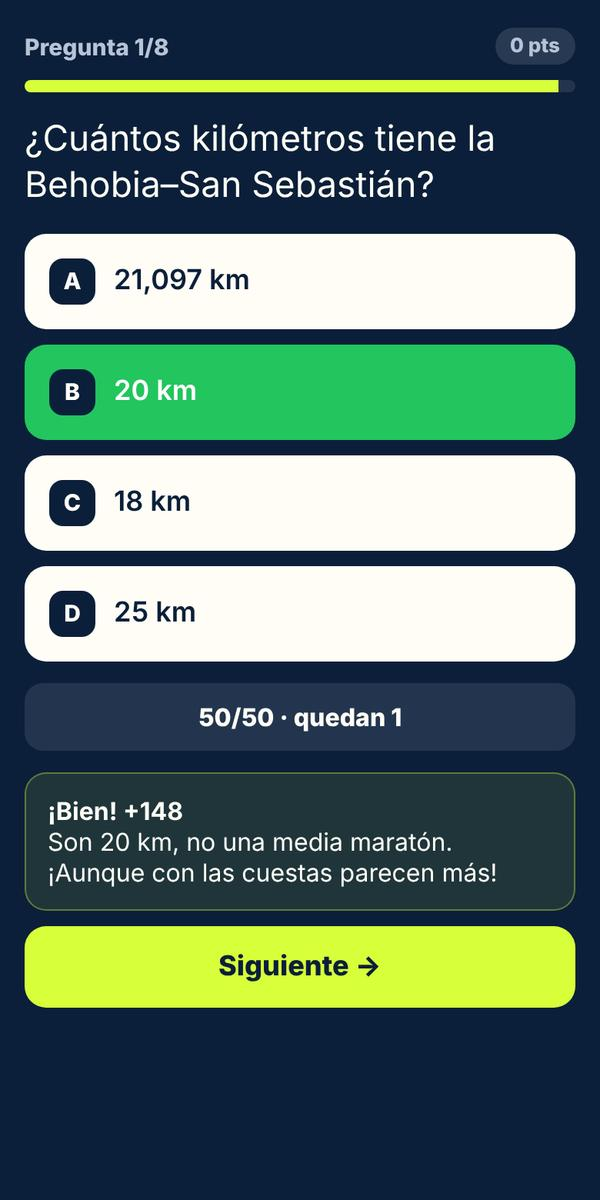
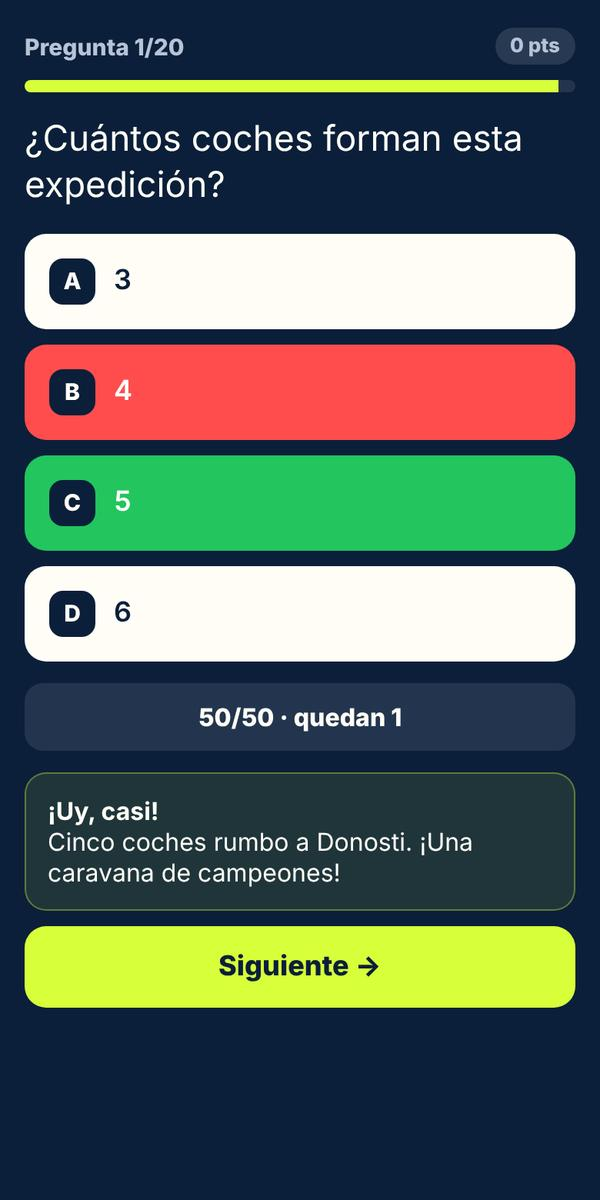
Porra individual, concurso de 20 preguntas por ronda con progreso guardado, una misión cambiada
Claude-Session: https://claude.ai/code/session_016PK8MS4tbaT5dERcZ1YUJ1

diff --git a/index.html b/index.html
@@ -138,8 +138,6 @@ const COCHES = [
   { id:4, nombre:"Coche de Paula Rovira",conductor:"Paula Rovira", pasajeros:["Rosa","Sandra"] },
   { id:5, nombre:"Coche de Jorge",       conductor:"Jorge",        pasajeros:["José Enrique","Merche","Maite"] },
 ];
-const VETERANOS = ["Luis","Fernando","Raúl"];
-const DEBUTANTE = "Isabel";
 const PIN_PRESENTADORA = "1919";
 const CODIGO_RONDA2 = "MORCILLA";
 const SEGUNDOS = 25;
@@ -152,7 +150,7 @@ const MISIONES = [
   "Logra que {T} te enseñe una foto de su móvil (mascota, hijos, vacaciones…).",
   "Choca los cinco con {T} tres veces antes de la cena del sábado.",
   "Haz que {T} pruebe algo típico de Burgos y que te dé las gracias.",
-  "Averigua el mejor tiempo de {T} en cualquier carrera.",
+  "Averigua cuál es la carrera o el reto deportivo más loco que ha hecho {T}.",
   "Consigue que {T} te dé un consejo para la carrera… y que te lo repita.",
   "Logra que {T} cante, aunque sea un trozo, alguna canción.",
   "Haz que {T} se ría con un chiste malo tuyo.",
@@ -166,22 +164,46 @@ const MISIONES = [
 
 const RONDAS = {
   1: { titulo:"Ronda 1 · Madrid → Burgos", preguntas:[
+    { q:"¿Cuántos coches forman esta expedición?", o:["3","4","5","6"], a:2,
+      f:"Cinco coches rumbo a Donosti. ¡Una caravana de campeones!" },
     { q:"¿Cuántos kilómetros tiene la Behobia–San Sebastián?", o:["21,097 km","20 km","18 km","25 km"], a:1,
       f:"Son 20 km, no una media maratón. ¡Aunque con las cuestas parecen más!" },
     { q:"¿En qué año se corrió la primera Behobia?", o:["1919","1951","1936","1979"], a:0,
       f:"El 30 de marzo de 1919. Más de 100 años de historia." },
-    { q:"¿Cuántos del grupo ya han corrido la Behobia antes?", o:["Ninguno","Uno","Tres","Todos menos Isabel"], a:2,
+    { q:"Saliendo de Madrid por la A-1, ¿qué puerto de montaña cruzáis?", o:["Navacerrada","Somosierra","Despeñaperros","Pajares"], a:1,
+      f:"Somosierra, a unos 1.444 m. Al otro lado ya estáis en la provincia de Segovia, en Castilla y León." },
+    { q:"¿Cuántos del grupo ya han corrido la Behobia antes?", o:["Ninguno","Uno","Tres","Todos"], a:2,
       f:"Luis, Fernando y Raúl. ¡Veteranos, os toca dar consejos!" },
+    { q:"¿Cuál es la comunidad autónoma más grande de España en extensión?", o:["Andalucía","Castilla y León","Castilla-La Mancha","Aragón"], a:1,
+      f:"Castilla y León, con unos 94.000 km². Burgos es una de sus nueve capitales de provincia." },
     { q:"¿Qué es el Papamoscas de Burgos?", o:["Un pájaro típico de la sierra","Un dulce de hojaldre","Una figura de la catedral que abre la boca al dar la hora","Un bar mítico de la Plaza Mayor"], a:2,
       f:"Está en lo alto de la nave de la catedral y abre la boca al sonar las campanadas." },
+    { q:"En una maratón, ¿qué es «el muro»?", o:["Una cuesta muy empinada del recorrido","El cartel gigante de la meta","El bajón de energía hacia el km 30-35","La zona donde reparten el agua"], a:2,
+      f:"Es cuando se agotan las reservas de energía. La Behobia, con 20 km, se queda antes del muro… pero las cuestas se notan igual." },
     { q:"¿Qué lleva la auténtica morcilla de Burgos?", o:["Patata","Arroz","Pan","Garbanzos"], a:1,
       f:"Arroz, cebolla, sangre, manteca y especias." },
+    { q:"¿Por qué es famosa Aranda de Duero, de camino a Burgos?", o:["Por su marisco","Por su fabada","Por su lechazo asado y sus vinos","Por su pulpo"], a:2,
+      f:"Lechazo asado en horno de leña y los vinos de la Ribera del Duero." },
     { q:"¿Cómo se llamaba el caballo del Cid?", o:["Rocinante","Bucéfalo","Babieca","Marengo"], a:2,
       f:"Babieca. Rocinante era el de don Quijote." },
+    { q:"¿Qué río atraviesa la ciudad de Burgos?", o:["Duero","Ebro","Pisuerga","Arlanzón"], a:3,
+      f:"El Arlanzón. El Duero pasa por otras ciudades como Soria o Zamora." },
+    { q:"¿En qué año declaró la UNESCO Patrimonio de la Humanidad a la Catedral de Burgos?", o:["1962","1984","1999","2007"], a:1,
+      f:"En 1984. Es la única catedral española con ese título ella sola, sin el resto de la ciudad." },
     { q:"¿Por qué es famosa Atapuerca, cerca de Burgos?", o:["Por sus bodegas","Por sus yacimientos de los primeros humanos de Europa","Por un monasterio templario","Por una batalla napoleónica"], a:1,
       f:"Sus yacimientos son clave para conocer la evolución humana." },
+    { q:"¿Dónde se expone el Guernica de Picasso?", o:["Museo del Prado","Museo Guggenheim de Bilbao","Museo Reina Sofía","Museo Thyssen"], a:2,
+      f:"En el Reina Sofía, en Madrid. Y Gernika es un pueblo de Bizkaia, ya en Euskadi." },
     { q:"¿Cuánto mide una maratón?", o:["40 km justos","42,195 km","41,5 km","45 km"], a:1,
       f:"42,195 km. La Behobia, con 20, no es ni media… pero casi." },
+    { q:"¿De qué Juegos Olímpicos sale la distancia de 42,195 km de la maratón?", o:["Atenas 1896","París 1900","Londres 1908","Berlín 1936"], a:2,
+      f:"De Londres 1908: salieron del castillo de Windsor y acabaron ante el palco real. La distancia se fijó oficialmente en 1921." },
+    { q:"¿Qué cena es la favorita de los corredores la noche antes de una carrera?", o:["Cocido madrileño","Pasta","Fabada","Cochinillo asado"], a:1,
+      f:"Pasta: los hidratos cargan las pilas. El cocido, mejor después de la carrera." },
+    { q:"En running, ¿qué es un «negative split»?", o:["Salir a tope y aguantar como se pueda","Correr la segunda mitad más rápido que la primera","Parar a beber en cada avituallamiento","Correr sin reloj"], a:1,
+      f:"Acabar más fuerte de lo que empezaste. Es el truco de los que llegan frescos a la meta." },
+    { q:"¿Cuántos kilómetros hay por carretera de Madrid a San Sebastián?", o:["Unos 270 km","Unos 470 km","Unos 670 km","Unos 870 km"], a:1,
+      f:"Unos 470 km, casi 5 horas con parada. ¡Paciencia, equipo!" },
   ]},
   2: { titulo:"Ronda 2 · Burgos → Donosti", preguntas:[
     { q:"¿Dónde está la salida de la Behobia?", o:["En Hondarribia","En Behobia, un barrio de Irun junto a Francia","En Pasaia","En Hendaya (Francia)"], a:1,
@@ -192,14 +214,38 @@ const RONDAS = {
       f:"En 1659. Es una isla que España y Francia gestionan por turnos de 6 meses." },
     { q:"¿Cuántos corredores tomaron la salida en la primera edición?", o:["7","22","150","1.000"], a:1,
       f:"22 atletas en 1919. Hoy son unos 30.000." },
+    { q:"¿Cómo se llama la playa más famosa de Donosti?", o:["Zurriola","Ondarreta","La Concha","Santa Clara"], a:2,
+      f:"La Concha, con forma de concha. Zurriola es la de los surfistas." },
     { q:"¿Cuál es el alto más temido del recorrido?", o:["Jaizkibel","Igueldo","Gaintxurizketa","Urgull"], a:2,
       f:"Gaintxurizketa. Luego llega Miracruz, casi al final." },
+    { q:"¿Cómo se dice «gracias» en euskera?", o:["Kaixo","Agur","Eskerrik asko","Aupa"], a:2,
+      f:"Eskerrik asko. «Kaixo» es hola y «agur», adiós." },
     { q:"¿Dónde está la meta?", o:["En la playa de la Concha","En el estadio de Anoeta","En el Boulevard","En el Kursaal"], a:2,
       f:"En el Boulevard, en pleno centro de Donosti." },
+    { q:"¿Qué es el txakoli?", o:["Un queso de oveja","Un vino blanco ligero y fresco","Un licor de hierbas","Una sidra"], a:1,
+      f:"Un vino blanco ligero y afrutado, que se sirve escanciado desde lo alto. Típico de Getaria." },
     { q:"¿Quién hizo el Peine del Viento?", o:["Jorge Oteiza","Eduardo Chillida","Rafael Moneo","Frank Gehry"], a:1,
       f:"Eduardo Chillida, donostiarra. Moneo hizo el Kursaal." },
+    { q:"¿Qué monte de Donosti tiene un funicular y un parque de atracciones de 1912?", o:["Urgull","Ulia","Igueldo","Jaizkibel"], a:2,
+      f:"Igueldo: funicular de madera y parque de atracciones desde 1912, con vistas a toda la bahía." },
+    { q:"¿Qué monte, junto al puerto, tiene el castillo de la Mota y un gran Sagrado Corazón en la cima?", o:["Ulia","Aiako Harria","Igueldo","Urgull"], a:3,
+      f:"Urgull. Se sube andando desde la Parte Vieja." },
     { q:"¿Qué lleva una Gilda, el pintxo nacido en Donosti?", o:["Pimiento, gamba y huevo","Guindilla, aceituna y anchoa","Jamón, queso y tomate","Bacalao y pimiento"], a:1,
       f:"Se llama así por Rita Hayworth: «verde, salada y un poco picante»." },
+    { q:"¿Qué tarta, nacida en un bar de la Parte Vieja de Donosti, se ha hecho famosa en medio mundo?", o:["Tarta de Santiago","Tarta de queso «quemada»","Tarta Sacher","Tarta tatin"], a:1,
+      f:"La tarta de queso al estilo de La Viña: tostada por fuera y cremosa por dentro." },
+    { q:"¿Qué festival se celebra en Donosti cada septiembre?", o:["Festival de la Sidra","Festival Internacional de Cine","Semana Grande","Festival de Jazz"], a:1,
+      f:"El Zinemaldia, el Festival de Cine, desde 1953. La Semana Grande es en agosto y el Jazzaldia en julio." },
+    { q:"¿En qué año fue Donostia Capital Europea de la Cultura?", o:["1992","2008","2016","2024"], a:2,
+      f:"En 2016, junto a Breslavia (Polonia)." },
+    { q:"¿Cuánto tarda más o menos el ganador de la Behobia en hacer los 20 km?", o:["Unos 40 minutos","Una hora","Hora y media","Dos horas"], a:1,
+      f:"Alrededor de una hora: en 2024 ganó Chakib Lachgar en 1 h 02 min. ¡Unos 3 min por km!" },
+    { q:"Cada 20 de enero Donosti celebra su día con una gran…", o:["Romería","Tamborrada","Cabalgata","Verbena"], a:1,
+      f:"La Tamborrada: miles de donostiarras desfilan con tambores y barriles, vestidos de cocineros y soldados." },
+    { q:"¿De qué fruta se hace el pacharán?", o:["Cerezas","Moras","Endrinas","Manzanas"], a:2,
+      f:"De endrinas maceradas en anís. Típico de Navarra y del País Vasco." },
+    { q:"¿De qué provincia es capital Donostia?", o:["Bizkaia","Álava","Navarra","Gipuzkoa"], a:3,
+      f:"De Gipuzkoa. Bilbao es de Bizkaia y Vitoria-Gasteiz, la capital vasca, de Álava." },
   ]},
 };
 
@@ -238,21 +284,13 @@ VIEWS.home = () => {
     <div class="menu">
       <button class="main" onclick="go('misiones')"><span class="ico">🕵</span><span><b>Mi misión secreta</b><small>Solo para tus ojos. No se la enseñes a nadie.</small></span></button>
       <button onclick="go('quizCoche')"><span class="ico">🧠</span><span><b>Concurso por coches</b><small>Juega el copiloto. ¡El conductor, ojos en la carretera!</small></span></button>
-      <button onclick="go('porra')"><span class="ico">⏱</span><span><b>La porra</b><small>¿Cuánto tardará la debutante? ¿Y tú?</small></span></button>
+      <button onclick="go('porra')"><span class="ico">⏱</span><span><b>La porra</b><small>Apuesta cuánto vas a tardar en la carrera</small></span></button>
       <button onclick="go('ayuda')"><span class="ico">📖</span><span><b>Guía y reglas</b><small>Cómo se juega, paso a paso</small></span></button>
       <button onclick="go('pin')"><span class="ico">🎤</span><span><b>Modo presentadora</b><small>Solo Isabel</small></span></button>
     </div>
-    <div class="footer">Hecho con cariño para la primera Behobia de Isabel 💛</div>`;
+    <div class="footer">Hecho con cariño para la expedición Behobia 💛</div>`;
 };
 
-VIEWS.reglas = () => {
-  app.innerHTML = hdr("Cómo se juega") + `
-    <div class="card"><h3>🕵 Misiones secretas</h3><p>Cada uno tiene una misión con alguien de <b>otro coche</b>. Tenéis hasta la cena del sábado. Al final se revelan todas y cada misión cumplida suma <b>50 puntos</b> a tu coche.</p></div>
-    <div class="card"><h3>🧠 Concurso</h3><p>Dos rondas de 8 preguntas, una por tramo. Responde el copiloto (o quien vaya detrás) en un solo móvil por coche. Acertar da 100 puntos y responder rápido, hasta 50 extra. La <b>ronda 2</b> se desbloquea con un código que Isabel dará en Burgos.</p></div>
-    <div class="card"><h3>📸 Reto de Burgos</h3><p>En la parada, Isabel anunciará un reto para cada coche. Hasta 100 puntos.</p></div>
-    <div class="card"><h3>⏱ La porra</h3><p>Apuesta el tiempo de Isabel en su debut y el tuyo. Gana quien más se acerque al tiempo real de Isabel. ¡Premio de honor para quien clave el suyo!</p></div>
-    <div class="card"><h3>🚗 Regla de oro</h3><p>Quien conduce <b>no toca el móvil</b>. Puede gritar respuestas, eso sí.</p></div>`;
-};
 
 /* ---------- MISIONES ---------- */
 VIEWS.misiones = () => {
@@ -291,11 +329,15 @@ VIEWS.quizCoche = () => {
 VIEWS.quizRonda = cid => {
   const c = COCHES.find(x => x.id === cid);
   const r1 = store.get(`res_${cid}_1`, null), r2 = store.get(`res_${cid}_2`, null);
+  const g1 = store.get(`prog_${cid}_1`, null), g2 = store.get(`prog_${cid}_2`, null);
+  const n1 = RONDAS[1].preguntas.length, n2 = RONDAS[2].preguntas.length;
+  const un2 = store.get(`unlock_${cid}`, false) || g2;
   app.innerHTML = hdr(esc(c.nombre),"quizCoche") + `
     <div class="menu">
-      <button class="main" onclick="${r1!==null?`go('quizFin',{cid:${cid},r:1})`:`startQuiz(${cid},1)`}"><span class="ico">🛣</span><span><b>${RONDAS[1].titulo}</b><small>${r1!==null?`Ya jugada: ${r1} puntos`:"¡Arrancamos!"}</small></span></button>
-      <button onclick="${r2!==null?`go('quizFin',{cid:${cid},r:2})`:`go('codigo',${cid})`}"><span class="ico">${r2!==null?"✅":"🔒"}</span><span><b>${RONDAS[2].titulo}</b><small>${r2!==null?`Ya jugada: ${r2} puntos`:"Necesitas el código que da Isabel en Burgos"}</small></span></button>
-    </div>`;
+      <button class="main" onclick="${r1!==null?`go('quizFin',{cid:${cid},r:1})`:`startQuiz(${cid},1)`}"><span class="ico">🛣</span><span><b>${RONDAS[1].titulo}</b><small>${r1!==null?`Ya jugada: ${r1} puntos`:g1?`Seguir por la pregunta ${g1.i+1} de ${n1}`:`${n1} preguntas · ¡Arrancamos!`}</small></span></button>
+      <button onclick="${r2!==null?`go('quizFin',{cid:${cid},r:2})`:un2?`startQuiz(${cid},2)`:`go('codigo',${cid})`}"><span class="ico">${r2!==null?"✅":un2?"🛣":"🔒"}</span><span><b>${RONDAS[2].titulo}</b><small>${r2!==null?`Ya jugada: ${r2} puntos`:g2?`Seguir por la pregunta ${g2.i+1} de ${n2}`:un2?`${n2} preguntas · ¡Desbloqueada!`:"Necesitas el código que da Isabel en Burgos"}</small></span></button>
+    </div>
+    <div class="gnote" style="margin-top:14px">💾 Si cerráis la web o se va la cobertura, el concurso sigue donde lo dejasteis.</div>`;
 };
 VIEWS.codigo = cid => {
   app.innerHTML = hdr("Código secreto",`quizRonda',${cid},'`) + `
@@ -307,12 +349,13 @@ VIEWS.codigo = cid => {
 };
 function checkCodigo(cid){
   const v = $("#cod").value.trim().toUpperCase();
-  if(v === CODIGO_RONDA2) startQuiz(cid, 2);
+  if(v === CODIGO_RONDA2){ store.set(`unlock_${cid}`, true); startQuiz(cid, 2); }
   else $("#err").textContent = "Ese no es… ¿seguro que no lo has soñado?";
 }
 function startQuiz(cid, r){
   const c = COCHES.find(x => x.id === cid);
-  Q = { cid, r, i:0, pts:0, aciertos:0, comodines: c.comodines || 1 };
+  const prog = store.get(`prog_${cid}_${r}`, null);
+  Q = prog ? { cid, r, ...prog } : { cid, r, i:0, pts:0, aciertos:0, comodines: c.comodines || 1 };
   go('pregunta');
 }
 VIEWS.pregunta = () => {
@@ -352,21 +395,23 @@ function responder(k){
   const ultima = Q.i === RONDAS[Q.r].preguntas.length - 1;
   $("#after").innerHTML = `<div class="fact pop"><b>${k===p.a?`¡Bien! +${ganados}`:k===-1?"¡Se acabó el tiempo!":"¡Uy, casi!"}</b><br>${esc(p.f)}</div>
     <button class="btn" onclick="${ultima?"finQuiz()":"Q.i++;go('pregunta')"}">${ultima?"Ver resultado 🏁":"Siguiente →"}</button>`;
+  if(!ultima) store.set(`prog_${Q.cid}_${Q.r}`, { i:Q.i+1, pts:Q.pts, aciertos:Q.aciertos, comodines:Q.comodines });
 }
 function finQuiz(){
   store.set(`res_${Q.cid}_${Q.r}`, Q.pts);
   store.set(`ac_${Q.cid}_${Q.r}`, Q.aciertos);
+  store.set(`prog_${Q.cid}_${Q.r}`, null);
   go('quizFin', { cid:Q.cid, r:Q.r });
 }
 VIEWS.quizFin = ({cid, r}) => {
   const c = COCHES.find(x => x.id === cid);
   const pts = store.get(`res_${cid}_${r}`, 0), ac = store.get(`ac_${cid}_${r}`, "?");
-  const msg = `🏁 ${c.nombre} · ${RONDAS[r].titulo}\n✅ ${ac}/8 aciertos\n🔥 ${pts} puntos\n#OperaciónBehobia`;
+  const msg = `🏁 ${c.nombre} · ${RONDAS[r].titulo}\n✅ ${ac}/${RONDAS[r].preguntas.length} aciertos\n🔥 ${pts} puntos\n#OperaciónBehobia`;
   app.innerHTML = hdr("Resultado",`home`) + `
     <div class="card center pop">
       <div class="pill">${esc(c.nombre)}</div>
       <p style="margin:14px 0 4px">${RONDAS[r].titulo}</p>
-      <div class="big">${pts}</div><p>puntos · ${ac}/8 aciertos</p>
+      <div class="big">${pts}</div><p>puntos · ${ac}/${RONDAS[r].preguntas.length} aciertos</p>
     </div>
     <a href="${wa(msg)}" target="_blank" style="text-decoration:none"><button class="btn wa">📲 Mandar resultado al grupo</button></a>
     <button class="btn sec" onclick="go('quizRonda',${cid})">Volver</button>`;
@@ -375,36 +420,22 @@ VIEWS.quizFin = ({cid, r}) => {
 /* ---------- PORRA ---------- */
 VIEWS.porra = () => {
   app.innerHTML = hdr("La porra") + helpBtn('porra','porra') + `
-    <div class="card"><p style="margin-top:0">Es la <b>primera Behobia de Isabel</b>. ¿Cuánto tardará? Gana quien más se acerque a su tiempo real. ¡Premio de honor para quien clave el suyo!</p>
+    <div class="card"><p style="margin-top:0">Apuesta cuánto vas a tardar tú en la carrera. ¡Premio de honor para quien más se acerque a su propia apuesta!</p>
     <label>¿Quién eres?</label>
     <select id="yo" style="width:100%;padding:14px;border-radius:12px;font:inherit;font-size:18px;background:#fffdf6;color:#0b1f3a">
       <option value="">Elige tu nombre…</option>
       ${PERSONAS.map(p=>`<option>${esc(p.nombre)}</option>`).join("")}
     </select>
-    <label id="lblIsa">⏱ Tiempo de Isabel</label>
-    <input id="tIsa" placeholder="Ej.: 2:05" inputmode="numeric">
     <label>🏃 Tu tiempo</label>
     <input id="tYo" placeholder="Ej.: 1:52" inputmode="numeric">
-    <div id="vet" class="hidden"><label>🎖 Eres veterano/a: un consejo para la debutante</label>
-    <textarea id="consejo" rows="3" placeholder="Ej.: Guarda fuerzas para Miracruz…"></textarea></div>
     <p class="hint">Formato horas:minutos. Se manda al grupo de WhatsApp para que quede por escrito.</p>
-    <button class="btn wa" onclick="enviarPorra()">📲 Enviar mi porra al grupo</button></div>`;
-  $("#yo").onchange = e => {
-    const v = e.target.value;
-    $("#vet").classList.toggle("hidden", !VETERANOS.includes(v));
-    const esIsa = v === DEBUTANTE;
-    $("#tIsa").parentNode && ($("#tIsa").style.display = esIsa ? "none" : "");
-    $("#lblIsa").style.display = esIsa ? "none" : "";
-  };
+    <button class="btn wa" onclick="enviarPorra()">📲 Enviar mi apuesta al grupo</button></div>`;
 };
 function enviarPorra(){
-  const yo = $("#yo").value, ti = $("#tIsa").value.trim(), ty = $("#tYo").value.trim(), co = ($("#consejo")||{}).value || "";
+  const yo = $("#yo").value, ty = $("#tYo").value.trim();
   if(!yo){ alert("Elige tu nombre"); return; }
-  let msg = `⏱ PORRA BEHOBIA · ${yo}\n`;
-  if(yo !== DEBUTANTE) msg += `👑 Isabel: ${ti || "?"}\n`;
-  msg += `🏃 Yo: ${ty || "?"}`;
-  if(co.trim()) msg += `\n🎖 Consejo para Isabel: ${co.trim()}`;
-  window.open(wa(msg), "_blank");
+  if(!ty){ alert("Escribe tu tiempo, por ejemplo 1:52"); return; }
+  window.open(wa(`⏱ PORRA BEHOBIA · ${yo}\n🏃 Mi tiempo: ${ty}`), "_blank");
 }
 
 /* ---------- PRESENTADORA ---------- */
@@ -473,12 +504,11 @@ const GUIA = {
     nota:"🃏 El botón <b>50/50</b> quita dos respuestas malas. Una vez por ronda (el coche de Raúl, dos)." },
   porra: { e:"⏱", t:"La porra", ir:"porra", pasos:[
     ["img/porra.jpg","Toca <b>«La porra»</b> y elige <b>tu nombre</b> en la lista."],
-    [null,"Escribe cuánto crees que tardará <b>Isabel</b> y cuánto tardarás <b>tú</b>. Así: <span class='code'>1:55</span> (horas:minutos)."],
-    [null,"Si eres veterano (Luis, Fernando o Raúl), deja un <b>consejo</b> para Isabel."],
+    [null,"Escribe cuánto crees que vas a tardar <b>tú</b>. Así: <span class='code'>1:55</span> (horas:minutos)."],
     [null,"Toca el botón verde. Se abre WhatsApp: elige el <b>grupo</b> y dale a <b>enviar</b>."]],
-    nota:"🏆 Gana quien más se acerque al tiempo real de Isabel. ¡Premio de honor para quien clave el suyo!" },
+    nota:"🏆 Premio de honor para quien más se acerque a su propia apuesta." },
   puntos: { e:"🏆", t:"Cómo gana un coche", pasos:[
-    [null,"<b>Concurso:</b> 100 puntos por acierto y hasta 50 más por responder rápido. Dos rondas de 8 preguntas."],
+    [null,"<b>Concurso:</b> 100 puntos por acierto y hasta 50 más por responder rápido. Dos rondas de 20 preguntas."],
     [null,"<b>Reto de Burgos:</b> en la parada, Isabel anuncia un reto para cada coche. Hasta 100 puntos."],
     [null,"<b>Misiones secretas:</b> 50 puntos al coche por cada misión cumplida."],
     [null,"En la <b>cena del sábado</b> Isabel revela las misiones y enseña la clasificación final."]] },
@@ -517,7 +547,7 @@ VIEWS.guiaIsabel = () => {
     <div class="tl"><b>☕ Parada en Burgos</b><span>Entra en el panel. Di en voz alta el código <span class="code">${CODIGO_RONDA2}</span>. Lee el <b>reto de la foto</b> y da a cada coche de 0 a 100 puntos.</span></div>
     <div class="tl"><b>🚗 Burgos → Donosti</b><span>Cada coche juega la <b>Ronda 2</b> y manda sus puntos al grupo. Apúntalos en el marcador.</span></div>
     <div class="tl"><b>🍽 Cena del sábado</b><span>Toca <b>«Revelar todas»</b> y lee las misiones en voz alta. Cada misión cumplida: <b>50 puntos</b>. Luego <b>«Mostrar clasificación»</b>. 🏆</span></div>
-    <div class="tl"><b>🏁 Después de la carrera</b><span>Mirad en WhatsApp quién acertó tu tiempo en la porra.</span></div>
+    <div class="tl"><b>🏁 Después de la carrera</b><span>Mirad en WhatsApp quién se ha acercado más a su apuesta de la porra.</span></div>
     <div class="gstep"><span class="gn">2</span><p style="display:inline">En el <b>marcador</b>, escribe los puntos de cada coche en su casilla (R1, R2, Burgos, Misiones). Se suman solos.</p><img src="img/marcador.jpg" alt=""></div>
     <div class="gstep"><span class="gn">3</span><p style="display:inline">Toca <b>«Mostrar clasificación»</b> y enseña el móvil a todos.</p><img src="img/clasif.jpg" alt=""></div>
     <button class="btn" onclick="go('panel')">Volver al panel</button>`;
